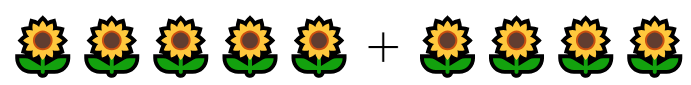
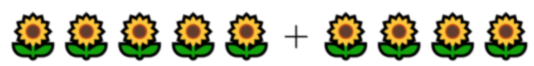
Add files via upload

diff --git a/be-thong-minh-nhanh-tri/index.html b/be-thong-minh-nhanh-tri/index.html
@@ -16,6 +16,8 @@
             display: flex;
             flex-direction: column;
             min-height: 100vh; /* Đảm bảo body có chiều cao đầy đủ của viewport */
+            align-items: center;
+            justify-content: center;
         }
 
         @keyframes gradientAnimation {
@@ -26,68 +28,52 @@
 
         h1 {
             color: #333;
-            font-size: 2.5rem;
+            font-size: 2rem;
             margin: 15px 0;
         }
 
         .container {
             display: flex;
-            justify-content: space-around;
-            align-items: center;
-            flex-grow: 1; /* Chiếm không gian còn lại */
+            justify-content: space-between;
+            flex-wrap: wrap; /* Allow items to wrap in smaller screens */
+            width: 100%;
+            max-width: 1200px; /* Limit the max width for larger screens */
+            margin: 20px;
         }
 
         footer {
-            height: 15px; /* Đảm bảo chiều cao footer cố định */
             text-align: center;
             padding: 15px 0;
             color: white;
-            font-size: 1.2rem;
+            font-size: 1rem; /* Adjust font size for better readability */
         }
 
         .images, .equations {
-            display: flex;
-            flex-direction: column;
-            justify-content: space-around;
-            align-items: center;
             flex: 1;
-            height: 100%;
-            width: 350px;
-            box-sizing: border-box; /* Bao gồm viền trong kích thước */
-        }
-
-        .images div {
-            width: 690px;
-        }
-
-        .equations div {
-            width: 250px;
-            font-family: '.VnAvant', cursive, sans-serif;
-        }
-
-        .equations {
-            width: 350px;
-            margin-left: 20px;
+            min-width: 300px;
+            max-width: 45%; /* Ensure the divs don't exceed 45% of the container width */
         }
 
         .images div, .equations div {
+            width: 100%; /* Make sure divs are responsive */
             margin: 10px;
             padding: 10px;
             border: 3px solid #ddd;
             border-radius: 12px;
             background-color: #fff;
             cursor: pointer;
-            font-size: 3.5rem;
+            font-size: 2rem; /* Adjust font size for better readability */
             text-align: center;
             transition: transform 0.2s;
             display: flex;
             justify-content: center;
             align-items: center;
+			height: 89px;		
         }
-
-        .images div:hover, .equations div:hover {
-            transform: scale(1.1);
-        }
+		
+		.equations div {
+			width: 50%;
+		}
 
         .highlight {
             border-color: #007BFF;
@@ -113,7 +99,7 @@
             border-radius: 20px;
             box-shadow: 0 4px 8px rgba(0, 0, 0, 0.2);
             text-align: center;
-            font-size: 2.2rem;
+            font-size: 2rem;
             z-index: 1000;
             display: none;
             max-width: 80%;
@@ -167,8 +153,8 @@
     </style>
 </head>
 <body>
-    <h1 style="font-size: 50px;margin-bottom: -15px;">Trò chơi: Bé Thông Minh Nhanh Trí</h1>
-    <h1 style="font-size: 30px;">Cách chơi: Nối các nhóm hình với ô có các số và kí hiệu phù hợp. (Ký hiệu "+" có nghĩa là "thêm" hay "gộp lại")</h1>
+    <h1>Trò chơi: Bé Thông Minh Nhanh Trí</h1>
+    <h1 style="font-size: 1.5rem;">Cách chơi: Nối các nhóm hình với ô có các số và kí hiệu phù hợp. (Ký hiệu "+" có nghĩa là "thêm" hay "gộp lại")</h1>
     <div class="container">
         <div class="images">
             <div data-value="9"><img src="./Hoa.png" alt="Sunflowers"></div>
@@ -204,130 +190,122 @@
     </div>
 
     <script>
-        let selectedImage = null;
-        const mySvgElement = document.querySelector('svg');
-        const drawnLines = [];
-        // Ví dụ thay thế các URL hiện tại bằng hình ảnh dễ thương:
-        const correctImageUrl = './congratulations-13773_256.gif';  // Icon mừng chiến thắng dễ thương
-        const incorrectImageUrl = './incorrect.gif';  // Icon thất bại dễ thương
-        
-        document.querySelectorAll('.images div').forEach(image => {
-            image.addEventListener('click', () => {
-                clearHighlight();
-                image.classList.add('highlight');
-                selectedImage = image;
-            });
-        });
+        document.addEventListener('DOMContentLoaded', () => {
+            let selectedImage = null;
+            const mySvgElement = document.querySelector('svg');
+            const drawnLines = [];
 
-        document.querySelectorAll('.equations div').forEach(equation => {
-            equation.addEventListener('click', () => {
-                if (selectedImage) {
-                    const imageValue = selectedImage.getAttribute('data-value');
-                    const equationValue = equation.getAttribute('data-value');
-
-                    drawArrow(selectedImage, equation);
-
-                    if (imageValue === equationValue) {
-                        showPopup('Chúc mừng! Bạn đã nối đúng!', correctImageUrl);
-                    } else {
-                        showPopup('Sai rồi! Hãy thử lại nhé!', incorrectImageUrl);
-                    }
-                    clearHighlight();
-                    selectedImage = null;
-                } else {
-                    alert('Hãy chọn một hình ảnh trước!');
-                }
-            });
-        });
-
-        function clearHighlight() {
             document.querySelectorAll('.images div').forEach(image => {
-                image.classList.remove('highlight');
+                image.addEventListener('click', () => {
+                    clearHighlight();
+                    image.classList.add('highlight');
+                    selectedImage = image;
+                });
             });
-        }
 
-        // Hàm chọn màu ngẫu nhiên
-        function getRandomColor() {
-            const letters = '0123456789ABCDEF';
-            let color = '#';
-            for (let i = 0; i < 6; i++) {
-                color += letters[Math.floor(Math.random() * 16)];
+            document.querySelectorAll('.equations div').forEach(equation => {
+                equation.addEventListener('click', () => {
+                    if (selectedImage) {
+                        const imageValue = selectedImage.getAttribute('data-value');
+                        const equationValue = equation.getAttribute('data-value');
+
+                        if (imageValue === equationValue) {
+                            drawArrow(selectedImage, equation);
+                            showPopup('Chúc mừng! Bạn đã nối đúng!', correctImageUrl);
+                        } else {
+                            showPopup('Sai rồi! Hãy thử lại nhé!', incorrectImageUrl);
+                        }
+                        clearHighlight();
+                        selectedImage = null;
+                    } else {
+                        alert('Hãy chọn một hình ảnh trước!');
+                    }
+                });
+            });
+
+            function clearHighlight() {
+                document.querySelectorAll('.images div').forEach(image => {
+                    image.classList.remove('highlight');
+                });
             }
-            return color;
-        }
 
-        function drawArrow(startElement, endElement) {
-            const startRect = startElement.getBoundingClientRect();
-            const endRect = endElement.getBoundingClientRect();
+            function drawArrow(startElement, endElement) {
+                const startRect = startElement.getBoundingClientRect();
+                const endRect = endElement.getBoundingClientRect();
 
-            const startX = startRect.right;
-            const startY = startRect.top + startRect.height / 2;
-            const endX = endRect.left;
-            const endY = endRect.top + endRect.height / 2;
+                const startX = startRect.right;
+                const startY = startRect.top + startRect.height / 2;
+                const endX = endRect.left;
+                const endY = endRect.top + endRect.height / 2;
 
-            // Tính toán các điểm điều khiển cho đường cong
-            const controlX1 = startX + (endX - startX) / 3;
-            const controlY1 = startY - 100;
-            const controlX2 = endX - (endX - startX) / 3;
-            const controlY2 = endY + 100;
+                const controlX1 = startX + (endX - startX) / 3;
+                const controlY1 = startY - 100;
+                const controlX2 = endX - (endX - startX) / 3;
+                const controlY2 = endY + 100;
 
-            // Tạo mũi tên và chọn màu ngẫu nhiên
-            const arrow = document.createElementNS('http://www.w3.org/2000/svg', 'path');
-            const arrowColor = getRandomColor(); // Lấy màu ngẫu nhiên
+                const arrow = document.createElementNS('http://www.w3.org/2000/svg', 'path');
+                const arrowColor = getRandomColor();
 
-            arrow.setAttribute('d', `M ${startX} ${startY} C ${controlX1} ${controlY1}, ${controlX2} ${controlY2}, ${endX} ${endY}`);
-            arrow.setAttribute('stroke', arrowColor); // Áp dụng màu ngẫu nhiên
-            arrow.setAttribute('stroke-width', '3');
-            arrow.setAttribute('fill', 'none');
-            arrow.setAttribute('marker-end', 'url(#arrowhead)');
+                arrow.setAttribute('d', `M ${startX} ${startY} C ${controlX1} ${controlY1}, ${controlX2} ${controlY2}, ${endX} ${endY}`);
+                arrow.setAttribute('stroke', arrowColor);
+                arrow.setAttribute('stroke-width', '3');
+                arrow.setAttribute('fill', 'none');
+                arrow.setAttribute('marker-end', 'url(#arrowhead)');
 
-            mySvgElement.appendChild(arrow);
-            drawnLines.push(arrow);
-            
-            // Kiểm tra đáp án đúng hay sai và xử lý
-            const imageValue = startElement.getAttribute('data-value');
-            const equationValue = endElement.getAttribute('data-value');
+                mySvgElement.appendChild(arrow);
+                drawnLines.push(arrow);
 
-            if (imageValue !== equationValue) {
-                // Nếu đáp án sai, xóa mũi tên
-                arrow.remove(); // Xóa mũi tên khỏi giao diện
-                const index = drawnLines.indexOf(arrow);
-                if (index > -1) {
-                    drawnLines.splice(index, 1); // Xóa mũi tên khỏi mảng
+                const imageValue = startElement.getAttribute('data-value');
+                const equationValue = endElement.getAttribute('data-value');
+
+                if (imageValue !== equationValue) {
+                    arrow.remove();
+                    const index = drawnLines.indexOf(arrow);
+                    if (index > -1) {
+                        drawnLines.splice(index, 1);
+                    }
                 }
             }
-        }
 
-        function showPopup(message, iconUrl) {
-            const overlay = document.querySelector('.overlay');
-            const popup = document.querySelector('.popup');
-            const popupMessage = document.querySelector('.popup-message');
-            const popupImage = document.querySelector('.popup-image');
+            function showPopup(message, iconUrl) {
+                const overlay = document.querySelector('.overlay');
+                const popup = document.querySelector('.popup');
+                const popupMessage = document.querySelector('.popup-message');
+                const popupImage = document.querySelector('.popup-image');
 
-            popupMessage.textContent = message;
-            popupImage.src = iconUrl; // Cập nhật URL hình ảnh
+                popupMessage.textContent = message;
+                popupImage.src = iconUrl;
 
-            overlay.style.display = 'block';
-            popup.style.display = 'block';
+                overlay.style.display = 'block';
+                popup.style.display = 'block';
 
-            setTimeout(() => {
-                overlay.style.display = 'none';
-                popup.style.display = 'none';
-            }, 2000);
-        }
-
-        function shuffleElements(container) {
-            const elements = Array.from(container.children);
-            for (let i = elements.length - 1; i > 0; i--) {
-                const j = Math.floor(Math.random() * (i + 1));
-                [elements[i], elements[j]] = [elements[j], elements[i]];
+                setTimeout(() => {
+                    overlay.style.display = 'none';
+                    popup.style.display = 'none';
+                }, 2000);
             }
-            elements.forEach(el => container.appendChild(el));
-        }
 
-        // Shuffle images and equations at the start
-        shuffleElements(document.querySelector('.images'));
-        shuffleElements(document.querySelector('.equations'));
+            function getRandomColor() {
+                const letters = '0123456789ABCDEF';
+                let color = '#';
+                for (let i = 0; i < 6; i++) {
+                    color += letters[Math.floor(Math.random() * 16)];
+                }
+                return color;
+            }
+
+            function shuffleElements(container) {
+                const elements = Array.from(container.children);
+                for (let i = elements.length - 1; i > 0; i--) {
+                    const j = Math.floor(Math.random() * (i + 1));
+                    [elements[i], elements[j]] = [elements[j], elements[i]];
+                }
+                elements.forEach(el => container.appendChild(el));
+            }
+
+            shuffleElements(document.querySelector('.images'));
+            shuffleElements(document.querySelector('.equations'));
+        });
     </script>
 
     <script src="https://static.app/js/static.js" type="text/javascript"></script>
